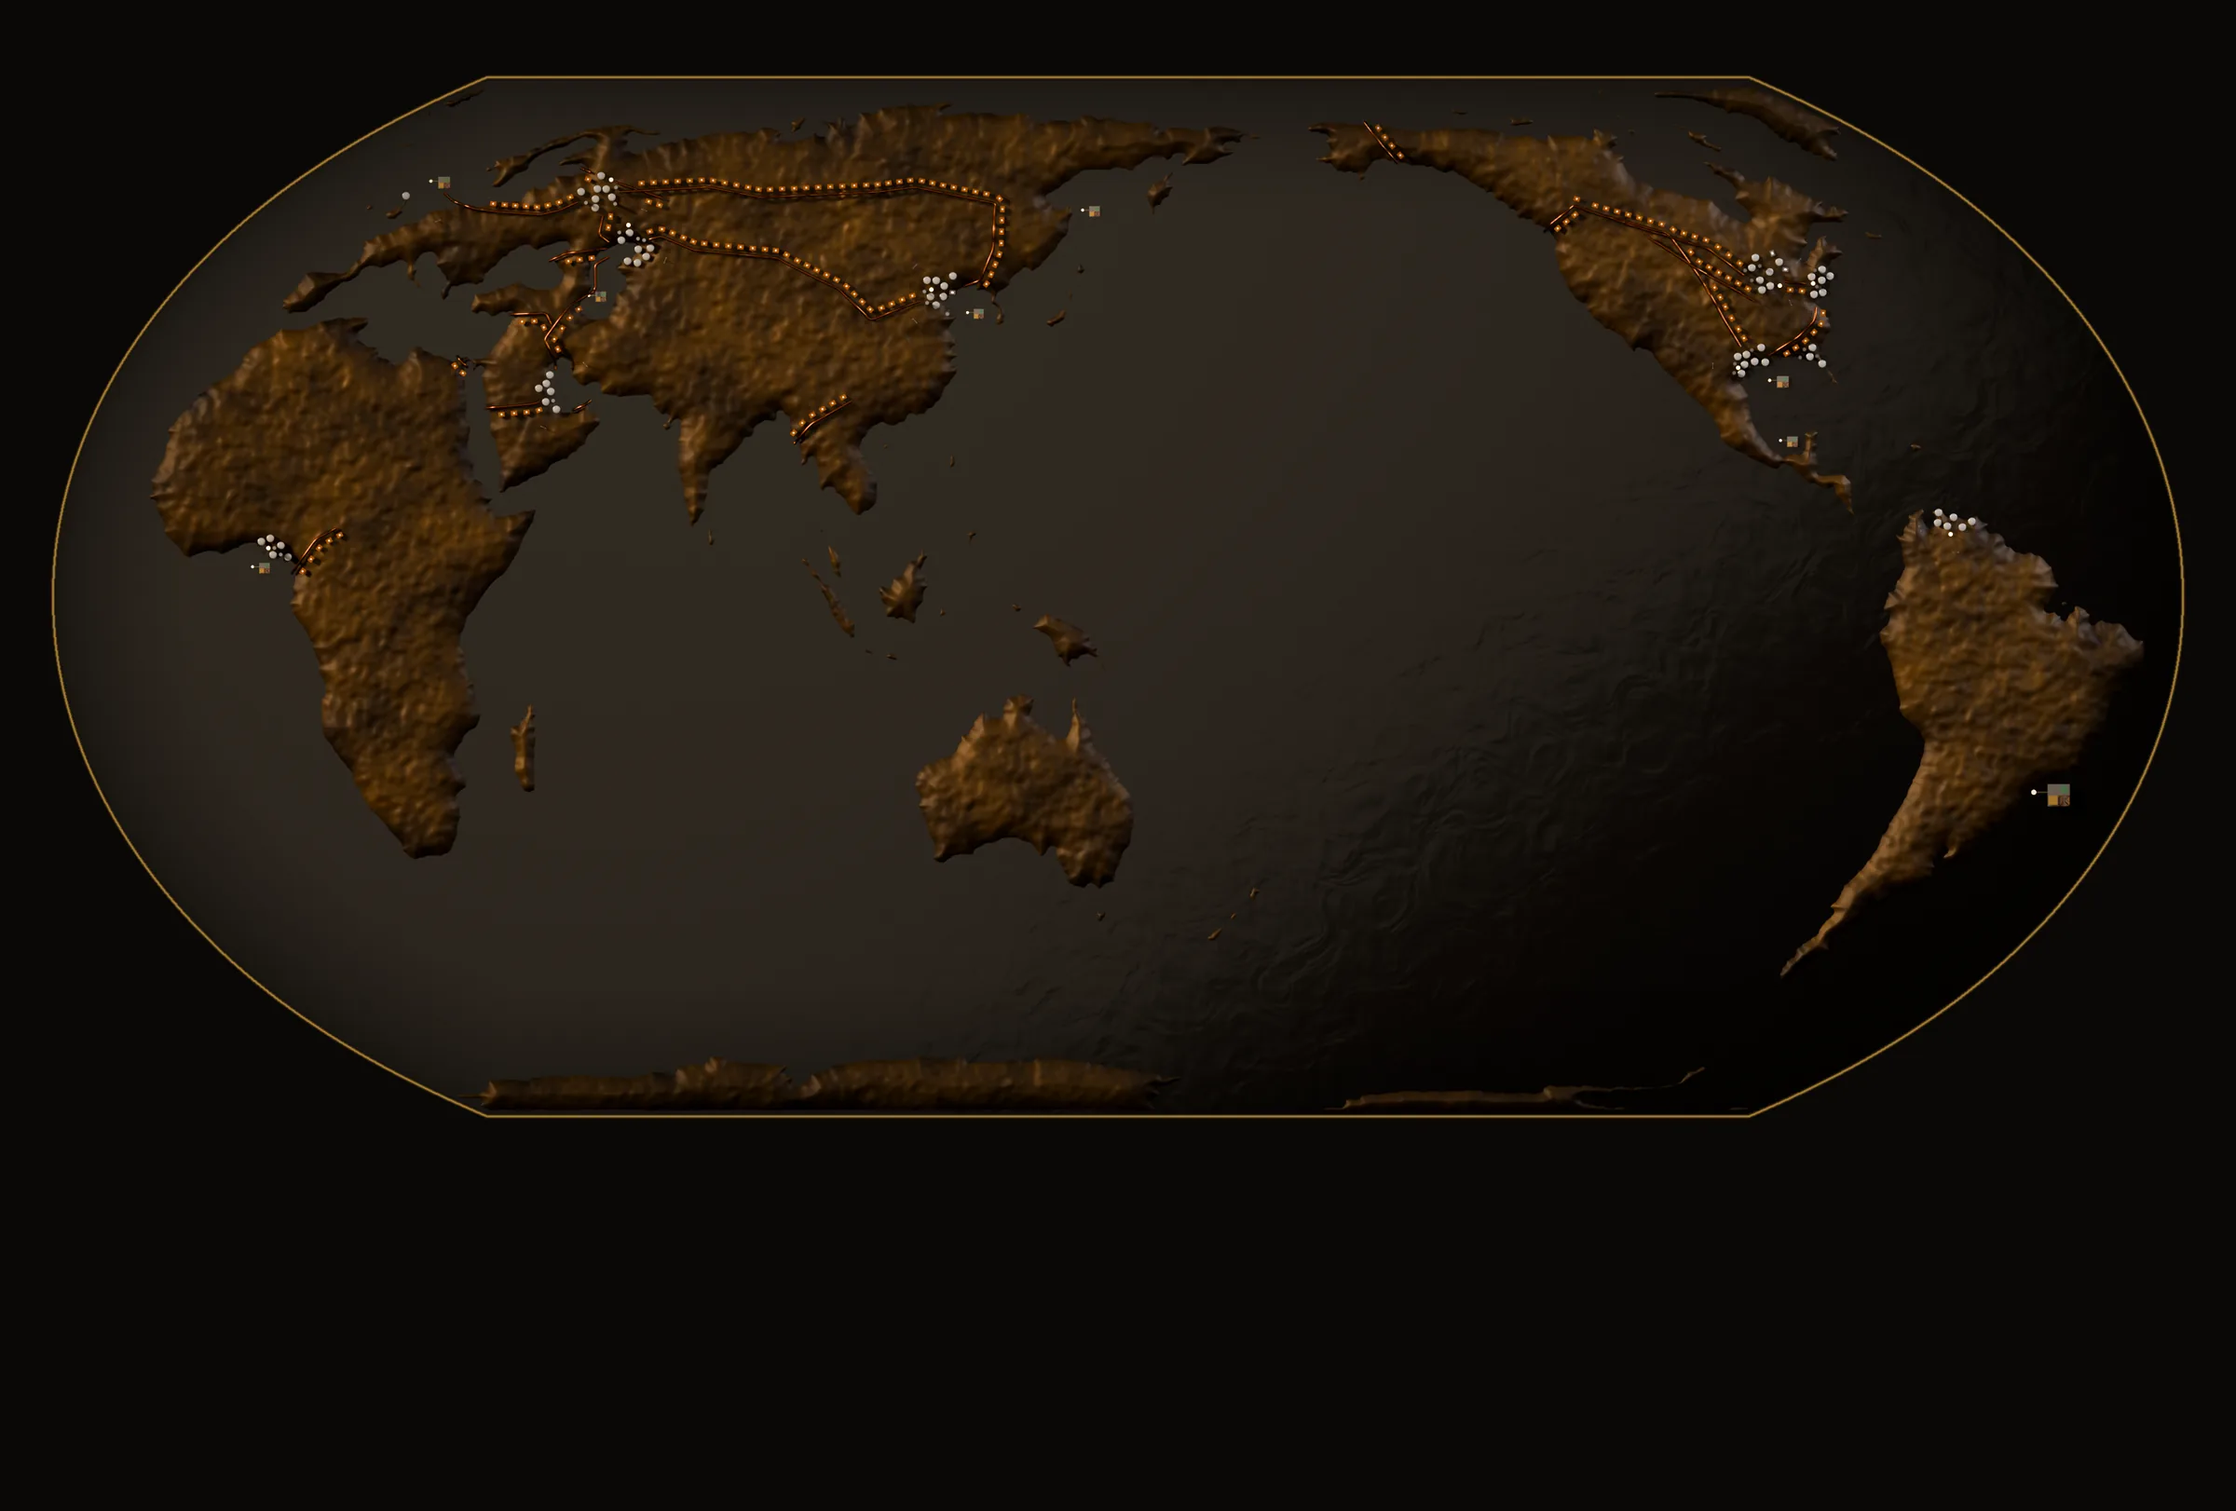
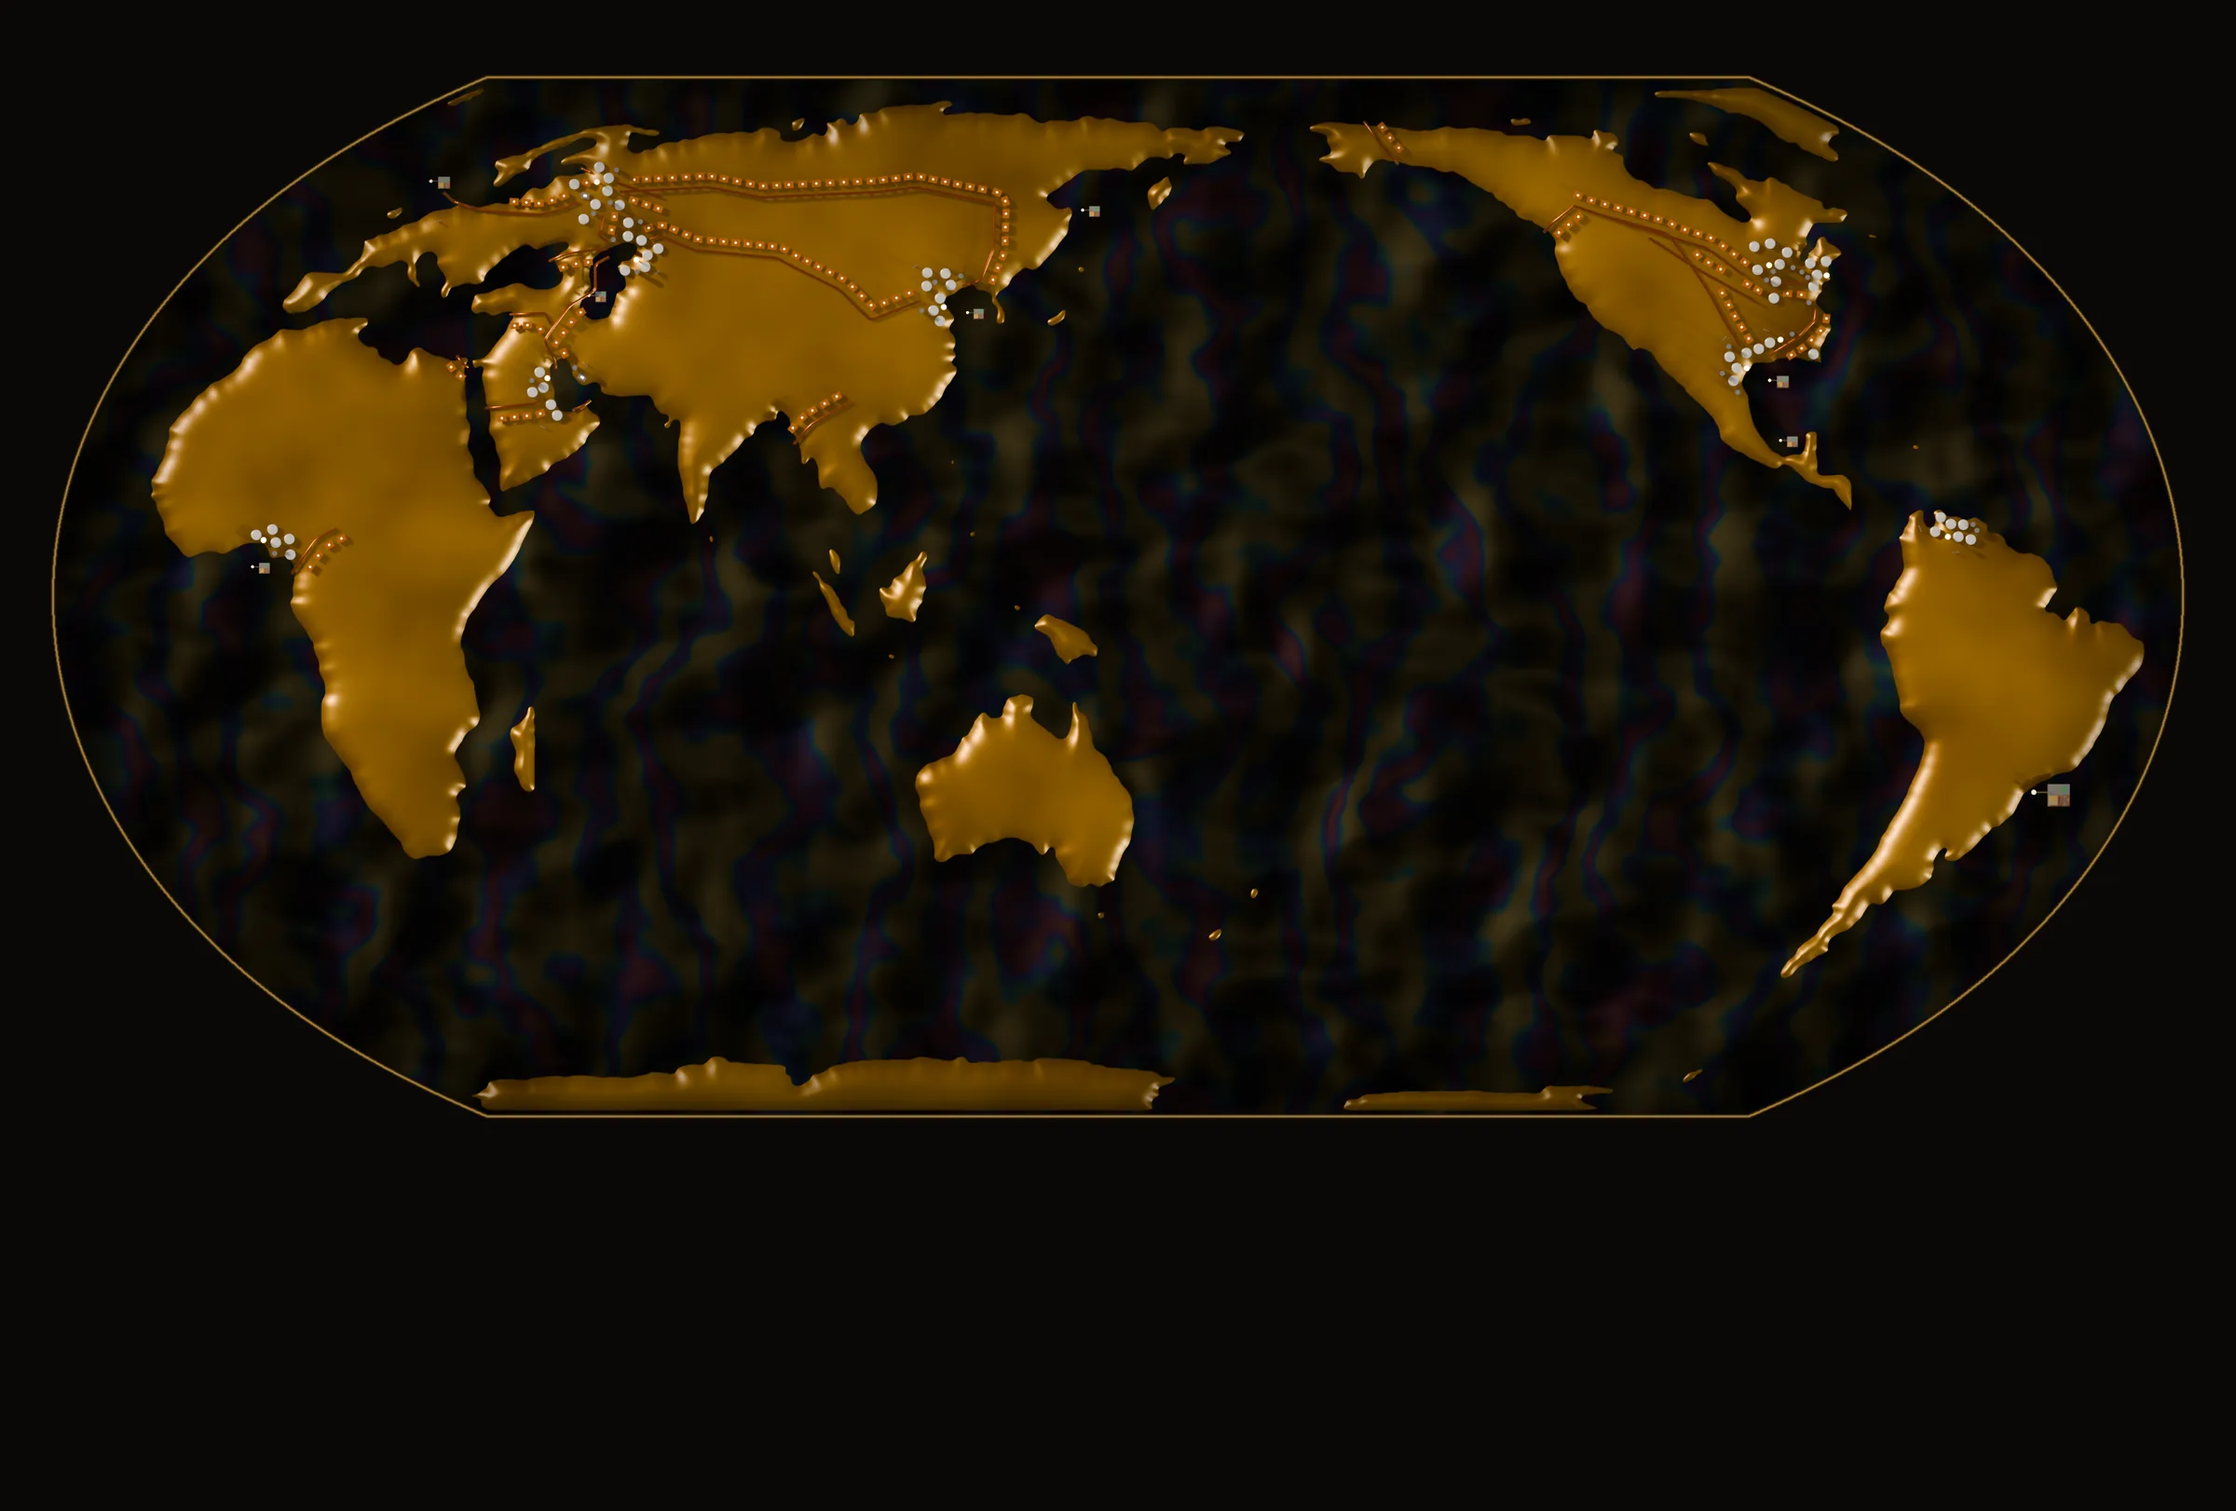
OiL WORLD round 2: living ocean of oil (from master d3860f6)

diff --git a/src/oil-world-view.js b/src/oil-world-view.js
@@ -96,23 +96,46 @@
     c.drawImage(src, sx, sy, w, h, x - ax * k, y - ay * k, w * k, h * k); c.globalAlpha = 1; return true;
   }
 
-  // ---- the sheen ----------------------------------------------------------------------------
+  // ---- the sheen (ROUND 2: it must read as OIL at 1x) ------------------------------------------------
+  // three layers on a quarter-res buffer, clipped to the sea: (1) the SLICK — long rainbow bands (thin-film order:
+  // gold → magenta → blue → green) that drift and turn slowly; (2) soft film pools; (3) the GLINT — a broad specular
+  // swell that rolls across the crude. Screened over the plate, so black stays black and the colour sits on the gloss.
   const FILM = [[255, 70, 190], [40, 210, 200], [250, 200, 60], [120, 90, 255], [60, 230, 120], [255, 120, 60]];
+  const BANDS = ['rgba(240,190,70,0)', 'rgba(240,190,70,.9)', 'rgba(220,60,170,.9)', 'rgba(70,90,240,.9)', 'rgba(40,200,170,.9)', 'rgba(40,200,170,0)'];
   function drawSheen(c, r, t) {
     if (!IMG.sea) return;
     const w = Math.max(64, Math.round(r.bw / 4)), h = Math.max(44, Math.round(r.bh / 4));
     if (!sheen || sheen.width !== w || sheen.height !== h) { sheen = document.createElement('canvas'); sheen.width = w; sheen.height = h; }
     const x = sheen.getContext('2d'); x.globalCompositeOperation = 'source-over'; x.clearRect(0, 0, w, h);
-    for (let i = 0; i < 9; i++) {
+    x.globalCompositeOperation = 'lighter';
+    for (let i = 0; i < 12; i++) {                    // (1) the slick: banded rainbow streaks
+      const ph = i * 2.1, cx = w * (0.5 + 0.46 * Math.sin(t * 0.000035 * (1 + i * 0.17) + ph)), cy = h * (0.45 + 0.38 * Math.cos(t * 0.00003 * (1 + i * 0.13) + ph * 1.4));
+      const len = w * (0.085 + 0.025 * Math.sin(t * 0.00011 + i)), wid = len * (0.38 + 0.1 * Math.sin(t * 0.00017 + i * 3)), ang = Math.sin(i * 1.3 + t * 0.00002) * 1.2;
+      x.save(); x.translate(cx, cy); x.rotate(ang);
+      const gr = x.createLinearGradient(0, -wid, 0, wid); BANDS.forEach((b, j) => gr.addColorStop(j / (BANDS.length - 1), b));
+      x.filter = 'blur(1px)'; x.globalAlpha = 0.48; x.fillStyle = gr; x.beginPath(); x.ellipse(0, 0, len, wid, 0, 0, 7); x.fill(); x.filter = 'none'; x.restore();
+    }
+    x.globalAlpha = 1;
+    for (let i = 0; i < 8; i++) {                     // (2) film pools
       const ph = i * 1.7, cx = w * (0.5 + 0.45 * Math.sin(t * 0.00005 * (1 + i * 0.13) + ph)), cy = h * (0.42 + 0.36 * Math.cos(t * 0.00004 * (1 + i * 0.11) + ph * 1.3));
-      const rad = w * (0.10 + 0.06 * Math.sin(t * 0.0002 + i)), [R, G, B] = FILM[i % FILM.length];
+      const rad = w * (0.09 + 0.05 * Math.sin(t * 0.0002 + i)), [R, G, B] = FILM[i % FILM.length];
       const gr = x.createRadialGradient(cx, cy, 0, cx, cy, rad);
-      gr.addColorStop(0, `rgba(${R},${G},${B},.55)`); gr.addColorStop(0.55, `rgba(${FILM[(i + 2) % 6].join(',')},.22)`); gr.addColorStop(1, 'rgba(0,0,0,0)');
+      gr.addColorStop(0, `rgba(${R},${G},${B},.45)`); gr.addColorStop(0.6, `rgba(${FILM[(i + 2) % 6].join(',')},.18)`); gr.addColorStop(1, 'rgba(0,0,0,0)');
       x.fillStyle = gr; x.beginPath(); x.ellipse(cx, cy, rad * 1.7, rad * 0.8, Math.sin(i + t * 0.00003), 0, 7); x.fill();
     }
+    for (let i = 0; i < 2; i++) {                     // (3) the glint: a slow specular swell rolling across
+      const f = ((t * 0.000018 + i * 0.5) % 1), gx = w * (-0.2 + 1.4 * f), gy = h * (0.25 + 0.5 * Math.sin(f * Math.PI + i));
+      const gr = x.createRadialGradient(gx, gy, 0, gx, gy, w * 0.22);
+      gr.addColorStop(0, 'rgba(255,244,220,.13)'); gr.addColorStop(1, 'rgba(255,244,220,0)');
+      x.fillStyle = gr; x.beginPath(); x.ellipse(gx, gy, w * 0.3, w * 0.12, 0.35, 0, 7); x.fill();
+    }
     x.globalCompositeOperation = 'destination-in'; x.drawImage(IMG.sea, 0, 0, w, h);
-    c.save(); c.globalCompositeOperation = 'screen'; c.globalAlpha = 0.28; c.drawImage(sheen, r.bx, r.by, r.bw, r.bh); c.restore();
+    c.save(); c.globalCompositeOperation = 'screen'; c.globalAlpha = 0.6; c.drawImage(sheen, r.bx, r.by, r.bw, r.bh); c.restore();
   }
+  // a soft glow under a mark, so it reads on the dark (ROUND 2)
+  function glow(c, x, y, rad, rgb, a) { const gr = c.createRadialGradient(x, y, 0, x, y, rad);
+    gr.addColorStop(0, `rgba(${rgb},${a})`); gr.addColorStop(1, `rgba(${rgb},0)`); c.fillStyle = gr; c.beginPath(); c.arc(x, y, rad, 0, 7); c.fill(); }
+  const rgbOf = hex => { const h = hex.replace('#', ''); return [0, 2, 4].map(i => parseInt(h.substr(i, 2), 16)).join(','); };
 
   // ---- the frame ----------------------------------------------------------------------------
   function drawWorld(now) {
@@ -123,24 +146,36 @@
     if (IMG.plate) c.drawImage(IMG.plate, r.bx, r.by, r.bw, r.bh);
     drawSheen(c, r, now);
     const M = MP(), st = g.mapState;
+    // ROUND 2: the game's pipelines, readable — a copper line with a soft glow and oil pulsing along it (dashes flow)
+    M.ROUTES.forEach(R => { if (!isPipe(R[0], R[1])) return; const Ln = GEO().lane(R[0], R[1]); if (!Ln) return;
+      const kk = Math.max(0.75, k), trace = () => { c.beginPath(); Ln.pieces.forEach(pc => pc.forEach((q, j) => j ? c.lineTo(X(q), Y(q)) : c.moveTo(X(q), Y(q)))); };
+      c.save(); c.lineCap = 'round'; c.lineJoin = 'round';
+      c.shadowColor = 'rgba(255,150,70,.55)'; c.shadowBlur = 8 * dpr * kk; c.strokeStyle = 'rgba(30,14,6,.85)'; c.lineWidth = 4.2 * dpr * kk; trace(); c.stroke();
+      c.shadowBlur = 0; c.strokeStyle = '#d27a35'; c.lineWidth = 2.2 * dpr * kk; trace(); c.stroke();
+      c.setLineDash([3 * dpr * kk, 9 * dpr * kk]); c.lineDashOffset = -now * 0.012 * dpr; c.strokeStyle = 'rgba(255,224,170,.85)'; c.lineWidth = 1.3 * dpr * kk; trace(); c.stroke();
+      c.restore(); });
     // shut straits: a red boom across the water
     Object.keys(st.closed || {}).forEach(code => { const p = at(code), x = X(p), y = Y(p);
       c.strokeStyle = 'rgba(226,60,42,.9)'; c.lineWidth = 2.2 * dpr; c.beginPath(); c.moveTo(x - 9 * dpr, y - 3 * dpr); c.lineTo(x + 9 * dpr, y + 3 * dpr); c.stroke(); });
     // refineries: a pilot flame where the yard is not burning
     M.PLACES.filter(p => p.kind === 'hq').forEach(pl => { if (g.crisis && g.burningAt(pl.code)) return;
-      const p = at(pl.code), x = X(p), y = Y(p) - 7 * dpr * Math.max(0.7, k), f = 0.6 + 0.4 * Math.sin(now * 0.013 + x) * Math.sin(now * 0.007 + y);
-      const gr = c.createRadialGradient(x, y, 0, x, y, 6 * dpr * Math.max(0.7, k)); gr.addColorStop(0, `rgba(255,190,90,${0.75 * f})`); gr.addColorStop(1, 'rgba(255,120,40,0)');
-      c.fillStyle = gr; c.beginPath(); c.arc(x, y, 6 * dpr * Math.max(0.7, k), 0, 7); c.fill(); });
+      const kk = Math.max(0.75, k), p = at(pl.code), x = X(p), y = Y(p) - 9 * dpr * kk, f = 0.65 + 0.35 * Math.sin(now * 0.013 + x) * Math.sin(now * 0.007 + y);
+      glow(c, x, y + 4 * dpr * kk, 22 * dpr * kk, '255,150,60', 0.22 * f);            // the yard's light on the ground
+      glow(c, x, y, 11 * dpr * kk, '255,200,110', 0.85 * f);                           // the flare
+      c.fillStyle = `rgba(255,240,200,${0.9 * f})`; c.beginPath(); c.ellipse(x, y, 1.8 * dpr * kk, 3.6 * dpr * kk, 0, 0, 7); c.fill(); });
     // the fires — weight, not spectacle: the column grows with every turn burning; the caption is quiet
     const F = g.crisis ? Object.entries(g.fires) : [];
     const fireFrame = Math.floor(now / 110) % 12, smokeFrame = Math.floor(now / 160) % 12;
-    const fireAt = (p, turns, label) => { const x = X(p), y = Y(p), s = Math.max(0.55, k) * dpr * (0.8 + 0.12 * Math.min(6, turns));
-      spr(IMG.atlas, 'haze', x, y, s * 1.6, 0.55);
-      for (let j = 0; j < Math.min(5, 1 + turns); j++) { const drift = ((now * 0.00002 + j * 0.23) % 1);
-        spr(IMG.atlas, 'smoke_f' + String((smokeFrame + j * 3) % 12).padStart(2, '0'), x + drift * 26 * s, y - drift * 34 * s, s * (1 + drift * 0.9), 0.85 * (1 - drift * 0.7)); }
-      spr(IMG.atlas, 'fire_f' + String(fireFrame).padStart(2, '0'), x, y, s, 0.95);
+    // ROUND 2: the column is drawn, not stamped — a slow, heavy, bending pillar of soot (14 puffs rising, widening,
+    // leaning downwind), lit from below by the burn; the fire itself small at its root. Weight, not spectacle.
+    const fireAt = (p, turns, label) => { const x = X(p), y = Y(p), kk = Math.max(0.7, k), s = kk * dpr * (1.15 + 0.12 * Math.min(6, turns));
+            glow(c, x, y, 26 * s, '255,110,40', 0.28);                                      // the ground lit by it
+      spr(IMG.atlas, 'haze', x, y, s * 1.5, 0.5);
+      for (let j = 0; j < Math.min(6, 2 + turns); j++) { const drift = ((now * 0.00002 + j * 0.19) % 1);   // the rendered smoke sprites, a slow leaning column
+        spr(IMG.atlas, 'smoke_f' + String((smokeFrame + j * 3) % 12).padStart(2, '0'), x + drift * 22 * s, y - drift * 40 * s, s * (0.9 + drift * 0.9), 0.9 * (1 - drift * 0.65)); }
+      spr(IMG.atlas, 'fire_f' + String(fireFrame).padStart(2, '0'), x, y, s * 1.2, 0.95);
       c.font = `italic ${Math.max(9, 10.5 * Math.min(1, k)) * dpr}px Georgia, serif`; c.textAlign = 'center'; c.fillStyle = 'rgba(214,170,120,.82)';
-      c.fillText(label, x, y + 16 * dpr * Math.max(0.7, k)); };
+      c.fillText(label, x, y + 18 * dpr * Math.max(0.7, k)); };
     F.forEach(([code, turns]) => fireAt(at(code), turns, `${(M.BY[code] || {}).name || code} — burning, ${turns} turn${turns === 1 ? '' : 's'}`));
     // pump-station fires (PIPELINE MODE)
     if (g.pipeMode) Object.entries(g.pumpFires || {}).forEach(([rid, turns]) => { const R = routeOf(+rid) || routeOf(rid); if (!R) return;
@@ -149,30 +184,33 @@
     if (g.crew) { const C = g.crew; let p = at(C.at), going = null;
       if (C.job && C.job.to && C.job.dist) { const path = M.pathOf(M.reach(C.at, 999, st), C.job.to), pts = voyage(path);
         if (pts.length > 1) { const f = Math.max(0, Math.min(1, 1 - C.left / C.job.dist)), m = { pts, t0: 0, dur: 1 }; const q = pos(m, f); p = [q[0], q[1]]; going = C.job; } }
-      const x = X(p), y = Y(p), s = 6 * dpr * Math.max(0.75, k);
+      const x = X(p), y = Y(p), s = 10.5 * dpr * Math.max(0.75, k);
+      glow(c, x, y, s * 2.6, '255,90,70', 0.35 + 0.15 * Math.sin(now * 0.008));    // the beacon: they are coming
       c.fillStyle = '#f4f0e6'; c.strokeStyle = '#c62f22'; c.lineWidth = 1.6 * dpr;
       c.beginPath(); c.moveTo(x, y - s); c.lineTo(x + s, y); c.lineTo(x, y + s); c.lineTo(x - s, y); c.closePath(); c.fill(); c.stroke();
-      c.fillStyle = '#c62f22'; c.font = `bold ${7 * dpr * Math.max(0.8, k)}px Trebuchet MS`; c.textAlign = 'center'; c.textBaseline = 'middle'; c.fillText('IWS', x, y + 0.5 * dpr);
-      c.font = `${9.5 * dpr}px Trebuchet MS`; c.fillStyle = 'rgba(244,240,230,.85)'; c.textBaseline = 'alphabetic';
+      c.fillStyle = '#c62f22'; c.font = `bold ${10.5 * dpr * Math.max(0.8, k)}px Trebuchet MS`; c.textAlign = 'center'; c.textBaseline = 'middle'; c.fillText('IWS', x, y + 0.5 * dpr);
+      c.font = `${10.5 * dpr}px Trebuchet MS`; c.fillStyle = 'rgba(244,240,230,.92)'; c.textBaseline = 'alphabetic';
       c.fillText(going ? `Box & Scooter → ${(M.BY[going.to] || {}).name || going.to}${C.queue.length ? ` · ${C.queue.length} waiting` : ''}` : 'Box & Scooter — on standby', x, y - s - 4 * dpr); }
     // the ships, and the cargo in the lines
     g.players.forEach((q, i) => {
       track(q, now); const m = motion[q.id], p = pos(m, now), x = X(p), y = Y(p), col = (g._colors && g._colors[i]) || '#f6c95a';
-      const s = Math.max(0.6, k) * dpr * 1.15;
+      const s = Math.max(0.6, k) * dpr * 1.7;   // ROUND 2: 1.5x — a tanker reads at game size
+      glow(c, x, y, 16 * s, rgbOf(col), 0.3);
       if (p[2] === 'pipe' || q.inLine || q.trapped) {          // the trek: a copper capsule in the line
         const a = -p[3]; c.save(); c.translate(x, y); c.rotate(a);
-        c.fillStyle = '#b8642a'; c.strokeStyle = 'rgba(10,6,3,.95)'; c.lineWidth = 1.4 * dpr;
-        c.beginPath(); c.roundRect ? c.roundRect(-9 * s, -4 * s, 18 * s, 8 * s, 4 * s) : c.rect(-9 * s, -4 * s, 18 * s, 8 * s); c.fill(); c.stroke();
-        c.fillStyle = col; c.fillRect(-2.5 * s, -4 * s, 5 * s, 8 * s); c.restore();
+        c.fillStyle = '#d27a35'; c.strokeStyle = 'rgba(10,6,3,.95)'; c.lineWidth = 1.6 * dpr;
+        c.beginPath(); c.roundRect ? c.roundRect(-7 * s, -3.2 * s, 14 * s, 6.4 * s, 3.2 * s) : c.rect(-7 * s, -3.2 * s, 14 * s, 6.4 * s); c.fill(); c.stroke();
+        c.fillStyle = 'rgba(255,220,170,.55)'; c.fillRect(-6 * s, -2.6 * s, 12 * s, 1.1 * s);
+        c.fillStyle = col; c.fillRect(-2 * s, -3.2 * s, 4 * s, 6.4 * s); c.restore();
         if (q.trapped) { const pulse = 0.5 + 0.5 * Math.sin(now * 0.006);
-          c.strokeStyle = `rgba(226,60,42,${0.5 + 0.4 * pulse})`; c.lineWidth = 2 * dpr; c.beginPath(); c.arc(x, y, 13 * s, 0, 7); c.stroke();
+          c.strokeStyle = `rgba(226,60,42,${0.5 + 0.4 * pulse})`; c.lineWidth = 2.4 * dpr; c.beginPath(); c.arc(x, y, 10 * s, 0, 7); c.stroke();
           c.font = `bold ${9 * dpr}px Trebuchet MS`; c.textAlign = 'center'; c.fillStyle = '#ff8a6a';
-          c.fillText(`TRAPPED · ${q.trapped.why === 'fire' ? 'pump fire' : q.trapped.why === 'political' ? 'shut-off' : 'sabotage'} · ${q.trapped.left}`, x, y - 15 * s); }
+          c.fillText(`TRAPPED · ${q.trapped.why === 'fire' ? 'pump fire' : q.trapped.why === 'political' ? 'shut-off' : 'sabotage'} · ${q.trapped.left}`, x, y - 12 * s); }
         return;
       }
       const hd = ((Math.round(((p[3] * 180 / Math.PI) % 360 + 360) % 360 / 22.5)) % 16), atl = tintedAtlas(col);
       if (!spr(atl, 'tanker_h' + String(hd).padStart(2, '0'), x, y, s)) { c.fillStyle = col; c.beginPath(); c.arc(x, y, 4 * dpr, 0, 7); c.fill(); }
-      if (q.isHuman) { c.strokeStyle = 'rgba(255,255,255,.85)'; c.lineWidth = 1.4 * dpr; c.beginPath(); c.arc(x, y, 12 * s, 0, 7); c.stroke(); }
+      if (q.isHuman) { c.strokeStyle = 'rgba(255,255,255,.85)'; c.lineWidth = 1.6 * dpr; c.beginPath(); c.arc(x, y, 9 * s, 0, 7); c.stroke(); }
     });
     // the tape, small: the world never hides the market
     c.textAlign = 'left'; c.textBaseline = 'middle'; c.font = 'bold ' + 12 * dpr + 'px Trebuchet MS';
